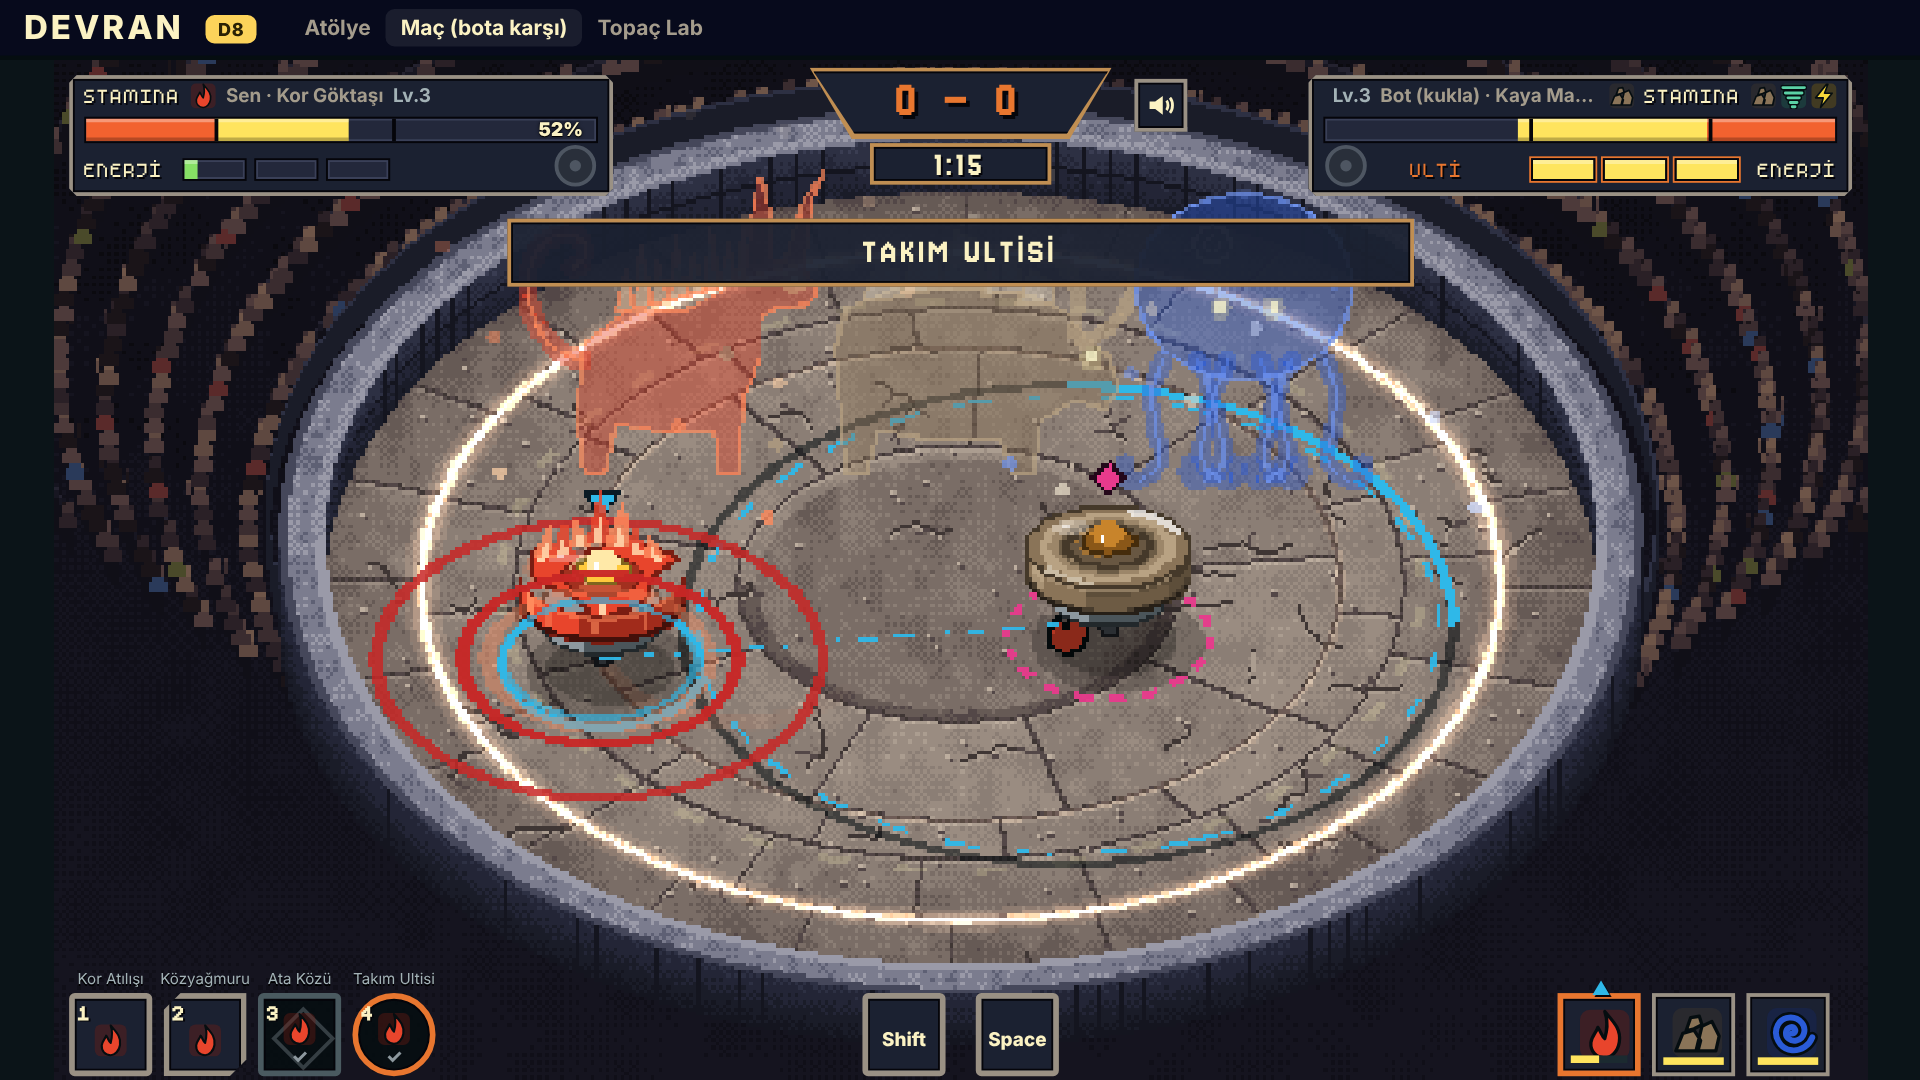
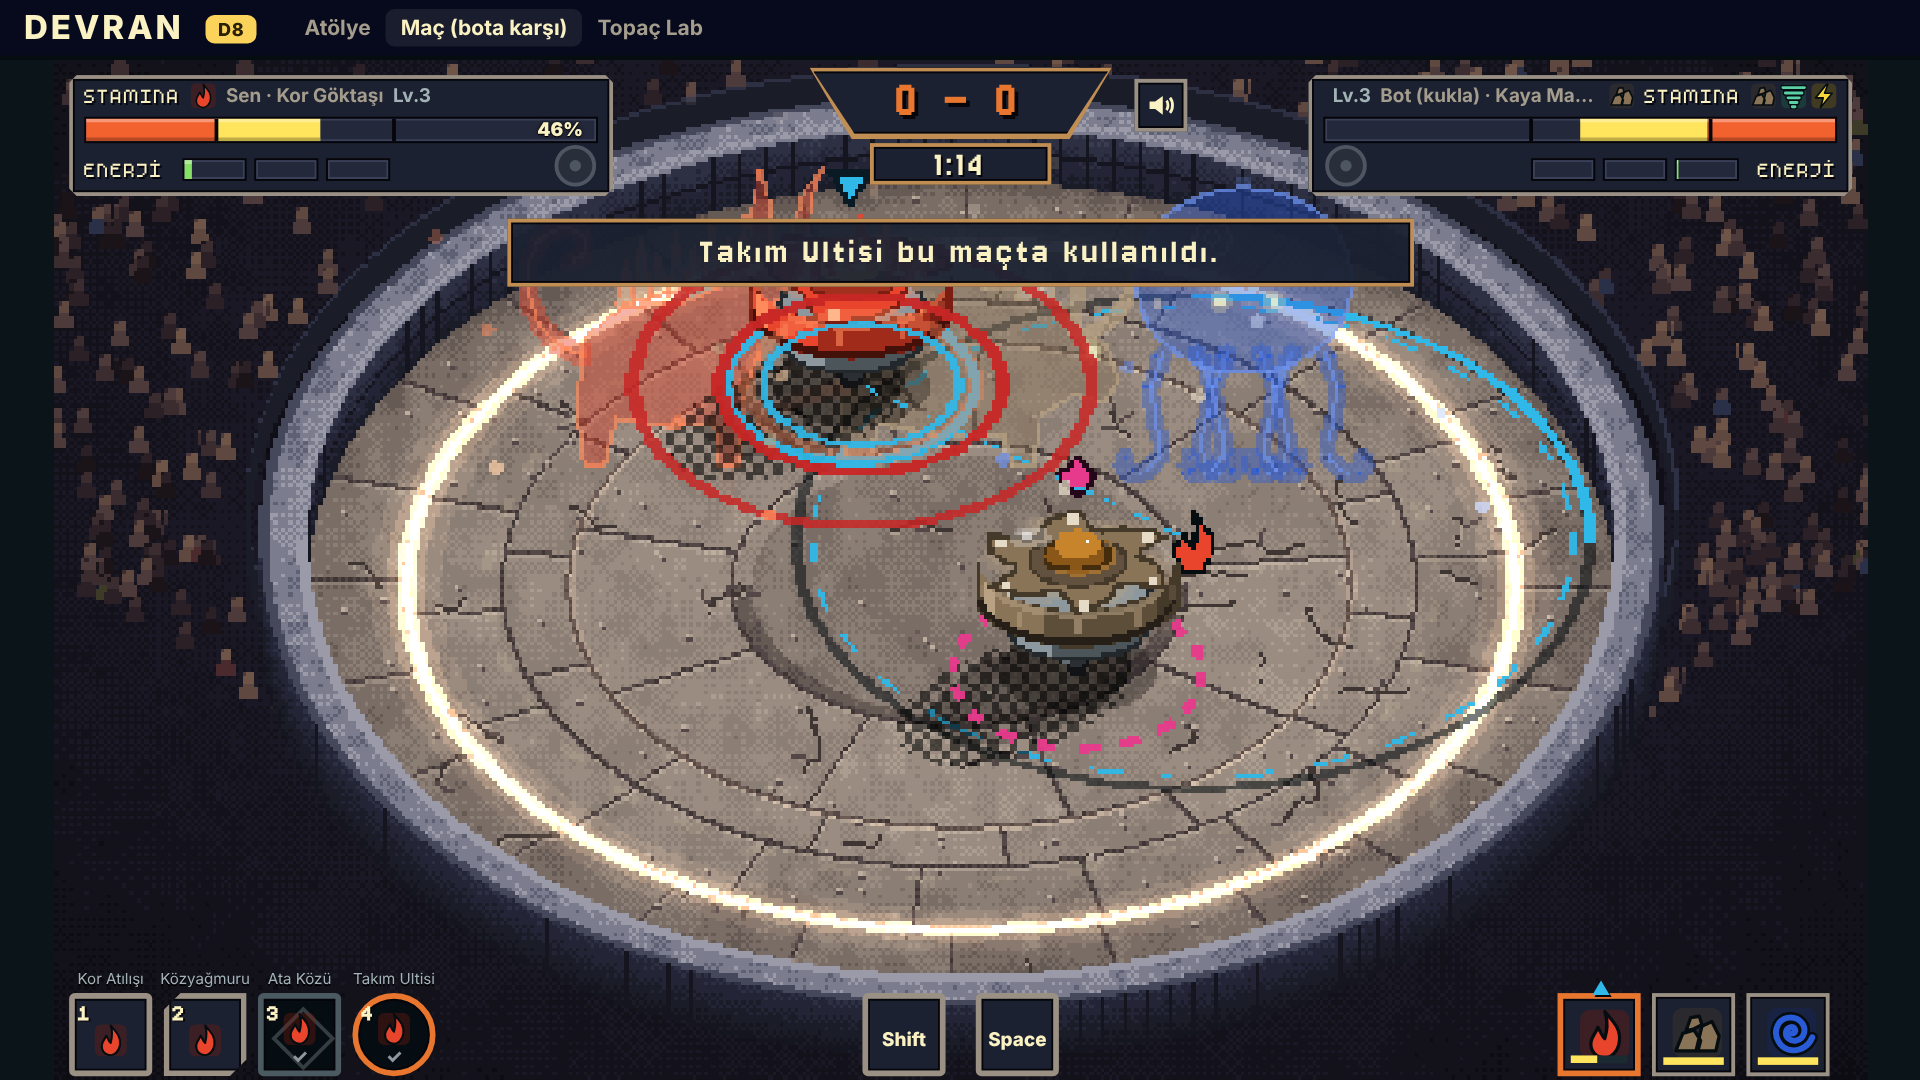
docs(gu-b2): second round screenshots (x1.44 camera, larger tops, cast shadow, crowd ring, spiral trail), 720p readability shots, refreshed reference comparisons, report section 9
Claude-Session: https://claude.ai/code/session_01KrtXAEJc6nN2SyPJcv3nGr

diff --git a/araclar/gu-ekran.ts b/araclar/gu-ekran.ts
@@ -132,11 +132,11 @@ const yuzde = (a: number[], q: number) => { const x = [...a].sort((p, r) => p - 
   await durmayiBekle(s, 15000);
   await foto(s, "08-telegraf-rakip-ulti");
   await devam(s);
-  await bekle(2500);
+  await bekle(9000); // rakip Ulti'si bitsin (sürerken Ulti / Takım Ultisi reddedilir)
   // Takım Ultisi: Takım Enerjisi dolu, 4
   await m(s, "(mac) => { mac.durum.takimEnerji[0] = 100; return 1; }");
   await olaydaDur(s, ["yetenekBasladi"], 14, 0);
-  await s.keyboard.down("Digit4"); await bekle(80); await s.keyboard.up("Digit4");
+  for (let k = 0; k < 5 && !(await durdu(s)); k++) { await s.keyboard.down("Digit4"); await bekle(80); await s.keyboard.up("Digit4"); await bekle(1500); }
   if (await durmayiBekle(s, 8000)) await foto(s, "10-takim-ultisi"); else kayit["takimUltisi"] = await m(s, "(mac) => ({ te: mac.durum.takimEnerji, faz: mac.durum.mac.faz })");
   await devam(s);
   kayit["sayac"] = await m(s, "(mac) => ({ ...mac.gorselSayac })");

diff --git a/docs/production/raporlar/GU-B.md b/docs/production/raporlar/GU-B.md
@@ -76,3 +76,22 @@ kipini kullanır, bekleme kartı hatasız açıldı. D8 dosyaları geri alındı
 - Ruh avatarları (özgün, kanatsız; D8 siluetleri yer tutucu).
 - Tribün kalabalık tileset'i (iri, seyrek, 2–3 poz) ve uzun düşen gölge.
 - Uzun vadede zemin efektleri için k_y = 0,62'ye göre yeniden pişirilmiş elips varyantlar (frost-nova, fire-ring halkaları).
+
+## 9. İkinci tur (sahip kararları, 2026-11-05)
+
+| Karar / iş | Sonuç | Commit |
+|---|---|---|
+| Kamera yakınlığı ×1,6 dene | ×1,6'da oynanabilir elips (R = 240) üstte süre plakasının (y ≤ 66), altta Shift/Space'in (y ≥ 494) ~25 px altına giriyor; ×1,5'te ~10 px. **Karar: ×1,44** (kayma 6): elips y 64–493, en büyük uygun değer; `test/kamera.test.ts` sınırı sınar. Duvar ve tribün HUD altında kalabilir (referanstaki gibi) | `66fd5d2`'den önceki `feat(gu-b2)` |
+| Topaçlar daha iri | Çizim ölçeği ×1,2 (`KAMERA.topacCizimOlcek`); sim yarıçapı 30 sabit, temas noktası (yıldız patlaması) gövde yüksekliğinde | aynı |
+| Uzun düşen gölge | Sol-alta uzayan döndürülmüş elips, 2×2 dama pixel dither kenar + koyu çekirdek (referans 07) | aynı |
+| Tribün | Sıra çizgileri kaldırıldı: seyirciler çanak çevresinde halka biçimli bantta sürekli rastgele açı/derinlikte, ekranY'ye göre arkadan öne; yakın (alt) taraf boş | aynı |
+| Krem sarmal iz | Ağır/kritik/dash çarpışmasında geri tepilen topacın çevresinde dönüş yönünde 1,7π krem sarmal (baş önce koşar, kuyruk söner); yıldız patlaması korundu | aynı |
+| Okunurluk 720p (`@pebble` yerine, Playwright 1280×720 DPR 1) | `GU-B-14-okunurluk-720p-dikey.png` (dikey çarpışma: iki gövde üst üste biner, temas yıldızı ve takım çemberleri ayrı okunur), `GU-B-15-okunurluk-720p-kenar.png`. **Bulunan sorun:** uzak kenardaki topacın gövdesi skor/süre plakasının ve üst panellerin altına giriyordu → **düzeltme:** topaç gövde kutusuyla kesişen HUD öğesi (paneller, skor, süre, Shift/Space) %30 saydamlaşır (`MacHud.ortusmeAyarla`); topaç asla örtülmez. İnsan testi (yayın sıkıştırması, renk körlüğü) sahibe kalır | aynı |
+| Stamina çubuğu | Referans 07 kırmızı→sarı bölgeli kaldı; `tasarim-dili.md` C-16 "sahip kararıyla değişti (2026-11-05)" | `chore(gu-b2)` |
+| Müzik | Varsayılan açık %40, H16 ses düğmesi her zaman görünür (değişiklik yok) | — |
+| Araçlar | `yetenek-ekran.ts` ve `d5-akis.ts` fare konumunu `__mac.ekranNoktasi` ile alıyor (hibrit izdüşüm); `yetenek-ekran` hibrit sahnede baştan sona koştu (konsol hatası 0, kayıt ses katmanları çaldı; üretilen D3 görüntüleri geri alındı). `mac-ekran.ts` ve `lab-ekran.ts` fare-dünya eşlemesi kullanmıyor (değişiklik gerekmedi) | `chore(gu-b2)` |
+| `d8-akis` `window.__lobi` | Kanca yeni `Lobi.ts` kurucusunda duruyor; menü ajanı kendi worktree'sinde d8'i baştan sona geçirdi. En olası neden: koşu sırasında paylaşılan ağaçta dosya değişimi → Vite tam yeniden yükleme. Menü ajanına bildirildi | — |
+
+**Yeni ölçüm** (aynı yöntem): Hibrit p50 2,2–2,4 ms, p95 5,3–6,7 ms, en çok ~17 ms; Düz p95 3,1–4,2 ms. Konsol hatası 0. Kapılar yeşil (403 test, 14/14 altın hash AYNI).
+
+**Uyum puanı (ikinci tur):** 07 **4/5** (çanak ekranı daha çok dolduruyor, iri topaç, düşen gölge, sarmal iz, halka kalabalık; kalan: elle çizilmiş topaç sprite'ı, çanak hâlâ referanstan küçük); 08 **4/5** (çift kırmızı halka, aura, koni, kenar parlaması, ruh arenanın üstünde; kalan: avatar sanatı). Kıyaslar: `GU-B-kiyas-07.png`, `GU-B-kiyas-08.png` (yenilendi).
